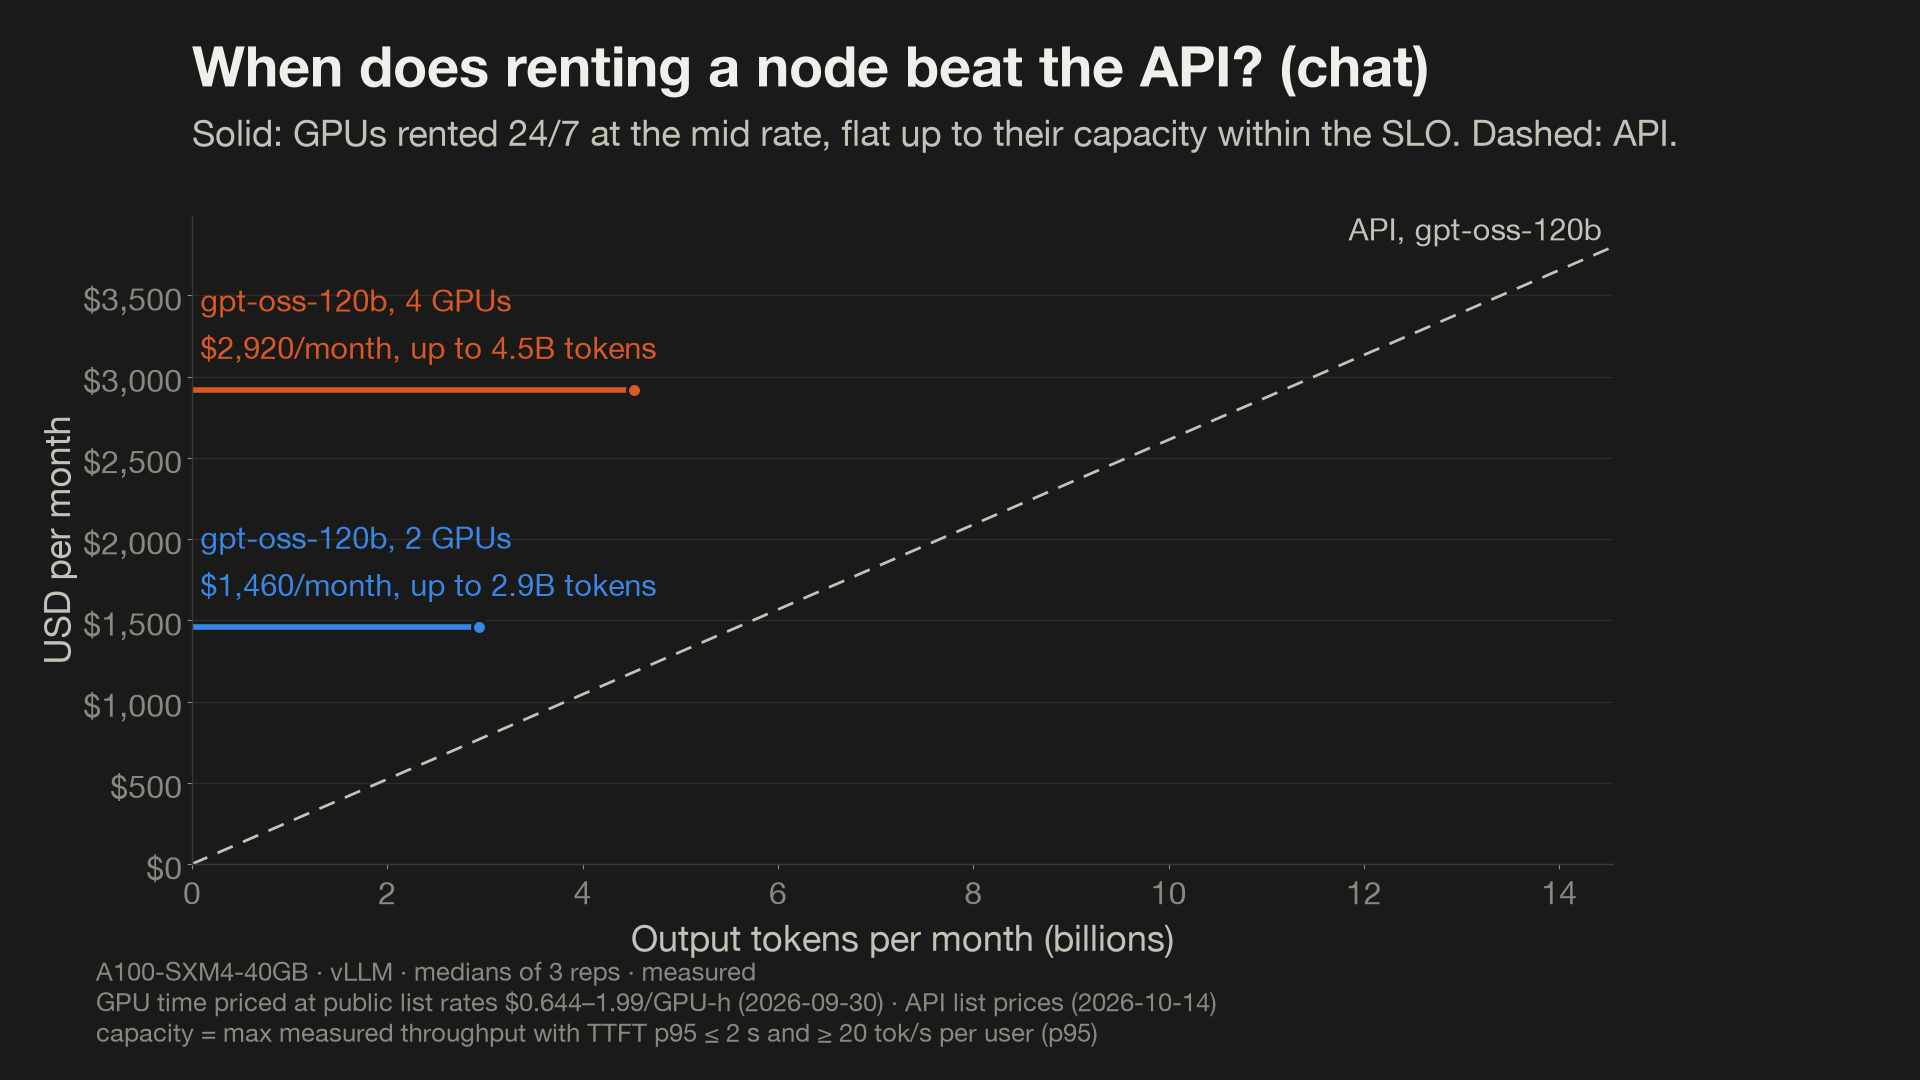
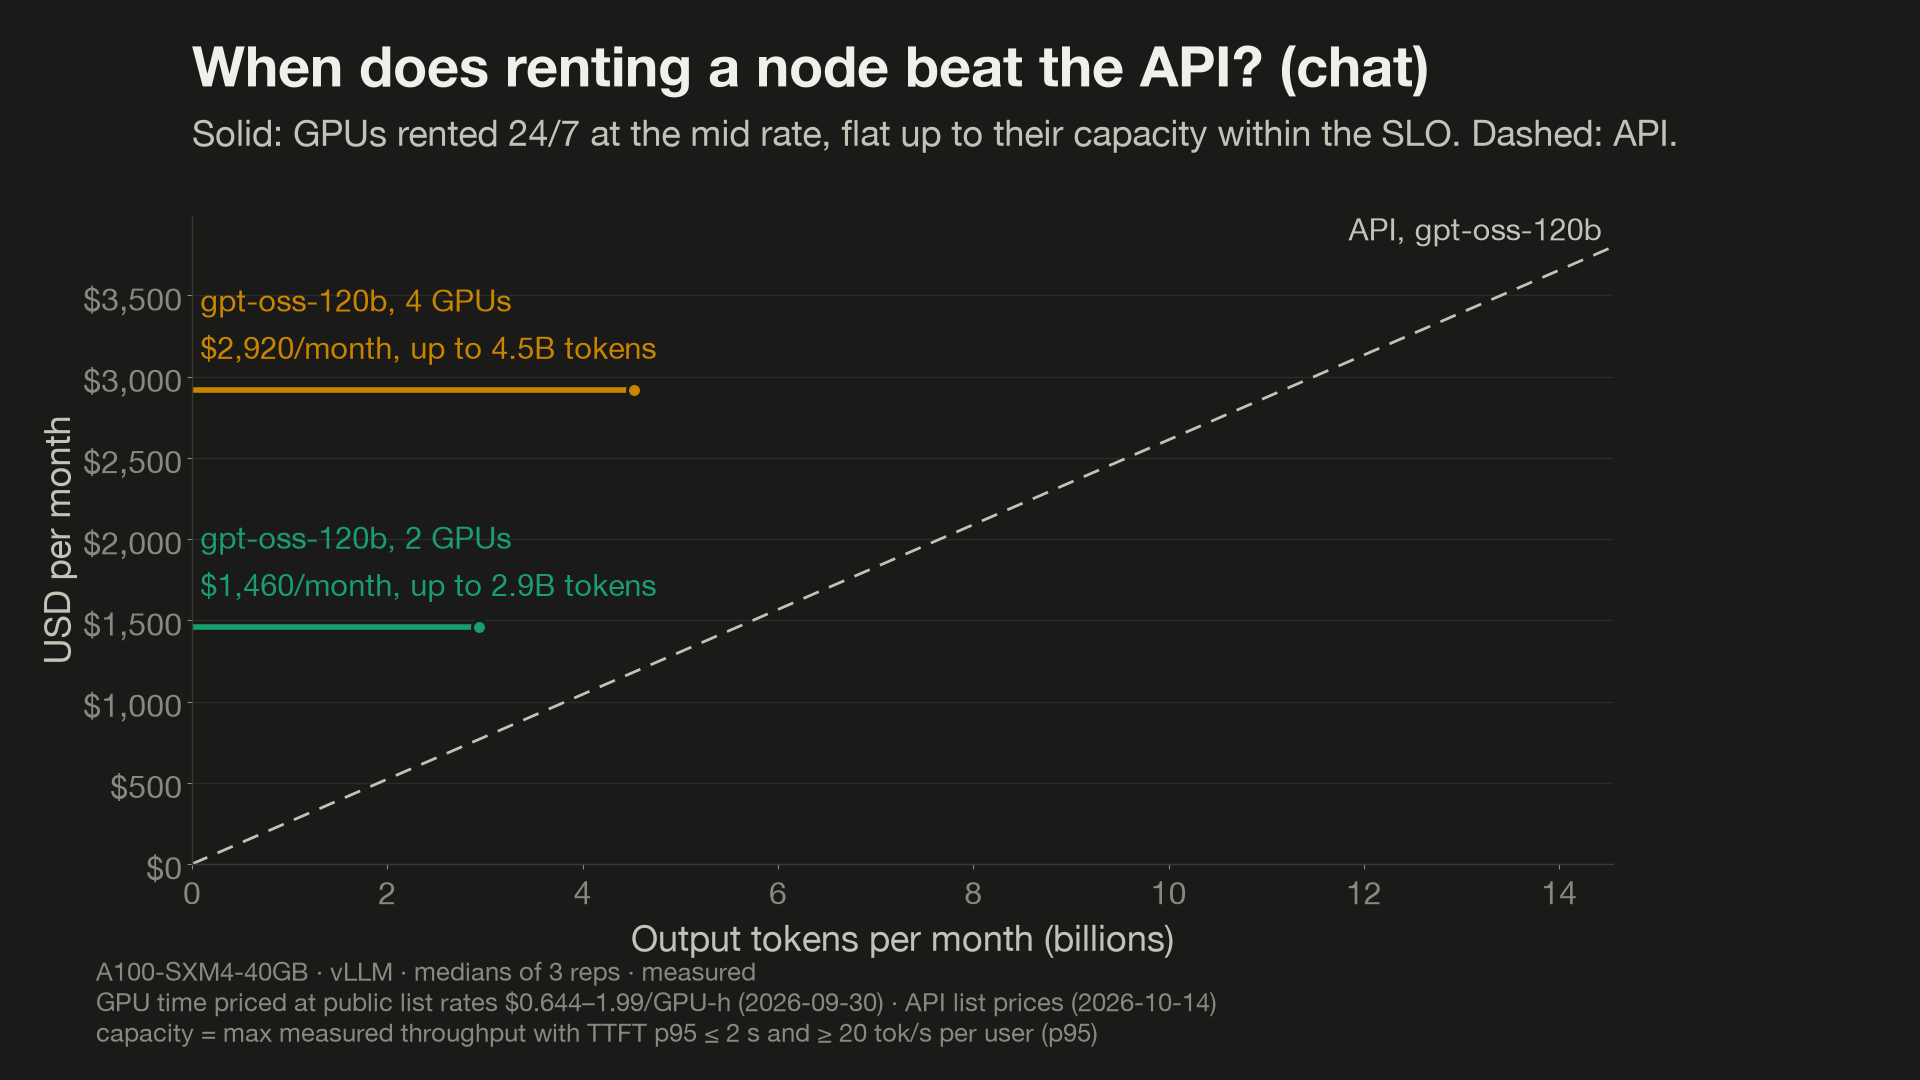
Figures: fixed entity colors per configuration, neutral SLO line
Each configuration keeps its palette slot in every chart, so adding the
Qwen runs will not recolor gpt-oss. The 20 tok/s line is neutral because
amber is the fourth entity slot.

Changed region(s): [[0.0938, 0.275, 0.3438, 0.3667], [0.0938, 0.4889, 0.3438, 0.5806]]

diff --git a/analysis/figures.py b/analysis/figures.py
@@ -27,6 +27,14 @@ import style  # noqa: E402
 from matplotlib.ticker import FixedLocator, FuncFormatter, NullLocator  # noqa: E402
 
 ROOT = Path(__file__).resolve().parents[1]
+# entity colors: a configuration keeps its palette slot in every chart (docs: style slots 1-4)
+SLOT = {"qwen27b-bf16-tp2": 0, "qwen27b-fp8-tp1": 1, "gptoss120b-tp2": 2, "gptoss120b-tp4": 3}
+
+
+def color(cfg: str) -> str:
+    if cfg not in SLOT:  # a new configuration takes the next free slot, in order of first use
+        SLOT[cfg] = len(SLOT)
+    return style.SLOTS[SLOT[cfg]]
 
 
 def footer(prices: dict, extra: str = "") -> str:
@@ -82,9 +90,9 @@ def cost_per_m(df, prices, workload, out):
     fig, ax = plt.subplots()
     fig.subplots_adjust(left=0.1, right=0.78, top=0.8, bottom=0.2)
     labels = []
-    for i, (cfg, g) in enumerate(d.groupby("config", sort=False)):
+    for cfg, g in d.groupby("config", sort=False):
         g = g.sort_values("concurrency")
-        c = style.SLOTS[i]
+        c = color(cfg)
         ax.fill_between(g["concurrency"], g["usd_per_m_out_low"], g["usd_per_m_out_high"], color=c, alpha=0.12, lw=0)
         ax.plot(g["concurrency"], g["usd_per_m_out_mid"], color=c)
         slo_markers(ax, g, "usd_per_m_out_mid", c)
@@ -122,8 +130,8 @@ def monthly(mon, prices, workload, out):
         ax.annotate(f"API, {m.split('/')[-1]}", (x[-1] / 1e9, x[-1] * r.api_usd_per_out_token_blended),
                     xytext=(-8, 0), textcoords="offset points", ha="right", va="bottom",
                     color=style.ink("ink2"), fontsize=22)
-    for i, r in enumerate(d.itertuples()):
-        c = style.SLOTS[i]
+    for r in d.itertuples():
+        c = color(r.config)
         cap = r.capacity_out_tok_per_month
         ax.plot([0, cap / 1e9], [r.fixed_usd_per_month_mid] * 2, color=c, lw=4)
         ax.plot(cap / 1e9, r.fixed_usd_per_month_mid, "o", color=c)
@@ -147,15 +155,15 @@ def user_speed(df, prices, workload, out):
     fig, ax = plt.subplots()
     fig.subplots_adjust(left=0.1, right=0.78, top=0.8, bottom=0.2)
     labels = []
-    for i, (cfg, g) in enumerate(d.groupby("config", sort=False)):
+    for cfg, g in d.groupby("config", sort=False):
         g = g.sort_values("concurrency")
-        ax.plot(g["concurrency"], g["decode_tok_s_user"], color=style.SLOTS[i])
-        slo_markers(ax, g, "decode_tok_s_user", style.SLOTS[i])
+        ax.plot(g["concurrency"], g["decode_tok_s_user"], color=color(cfg))
+        slo_markers(ax, g, "decode_tok_s_user", color(cfg))
         last = g.iloc[-1]
         labels.append((last["concurrency"], last["decode_tok_s_user"], pretty(cfg, last["model"], last["tp"]),
-                       style.SLOTS[i]))
+                       color(cfg)))
     slo = 1000.0 / prices["slo"]["tpot_p95_ms"]
-    ax.axhline(slo, color=style.STATUS["warning"], lw=2)
+    ax.axhline(slo, color=style.ink("muted"), lw=2)  # neutral: amber is an entity slot
     ax.annotate(f"usable: {slo:.0f} tok/s per user", (d["concurrency"].min(), slo), xytext=(4, 8),
                 textcoords="offset points", color=style.ink("ink2"), fontsize=22)
     concurrency_axis(ax, d["concurrency"])
